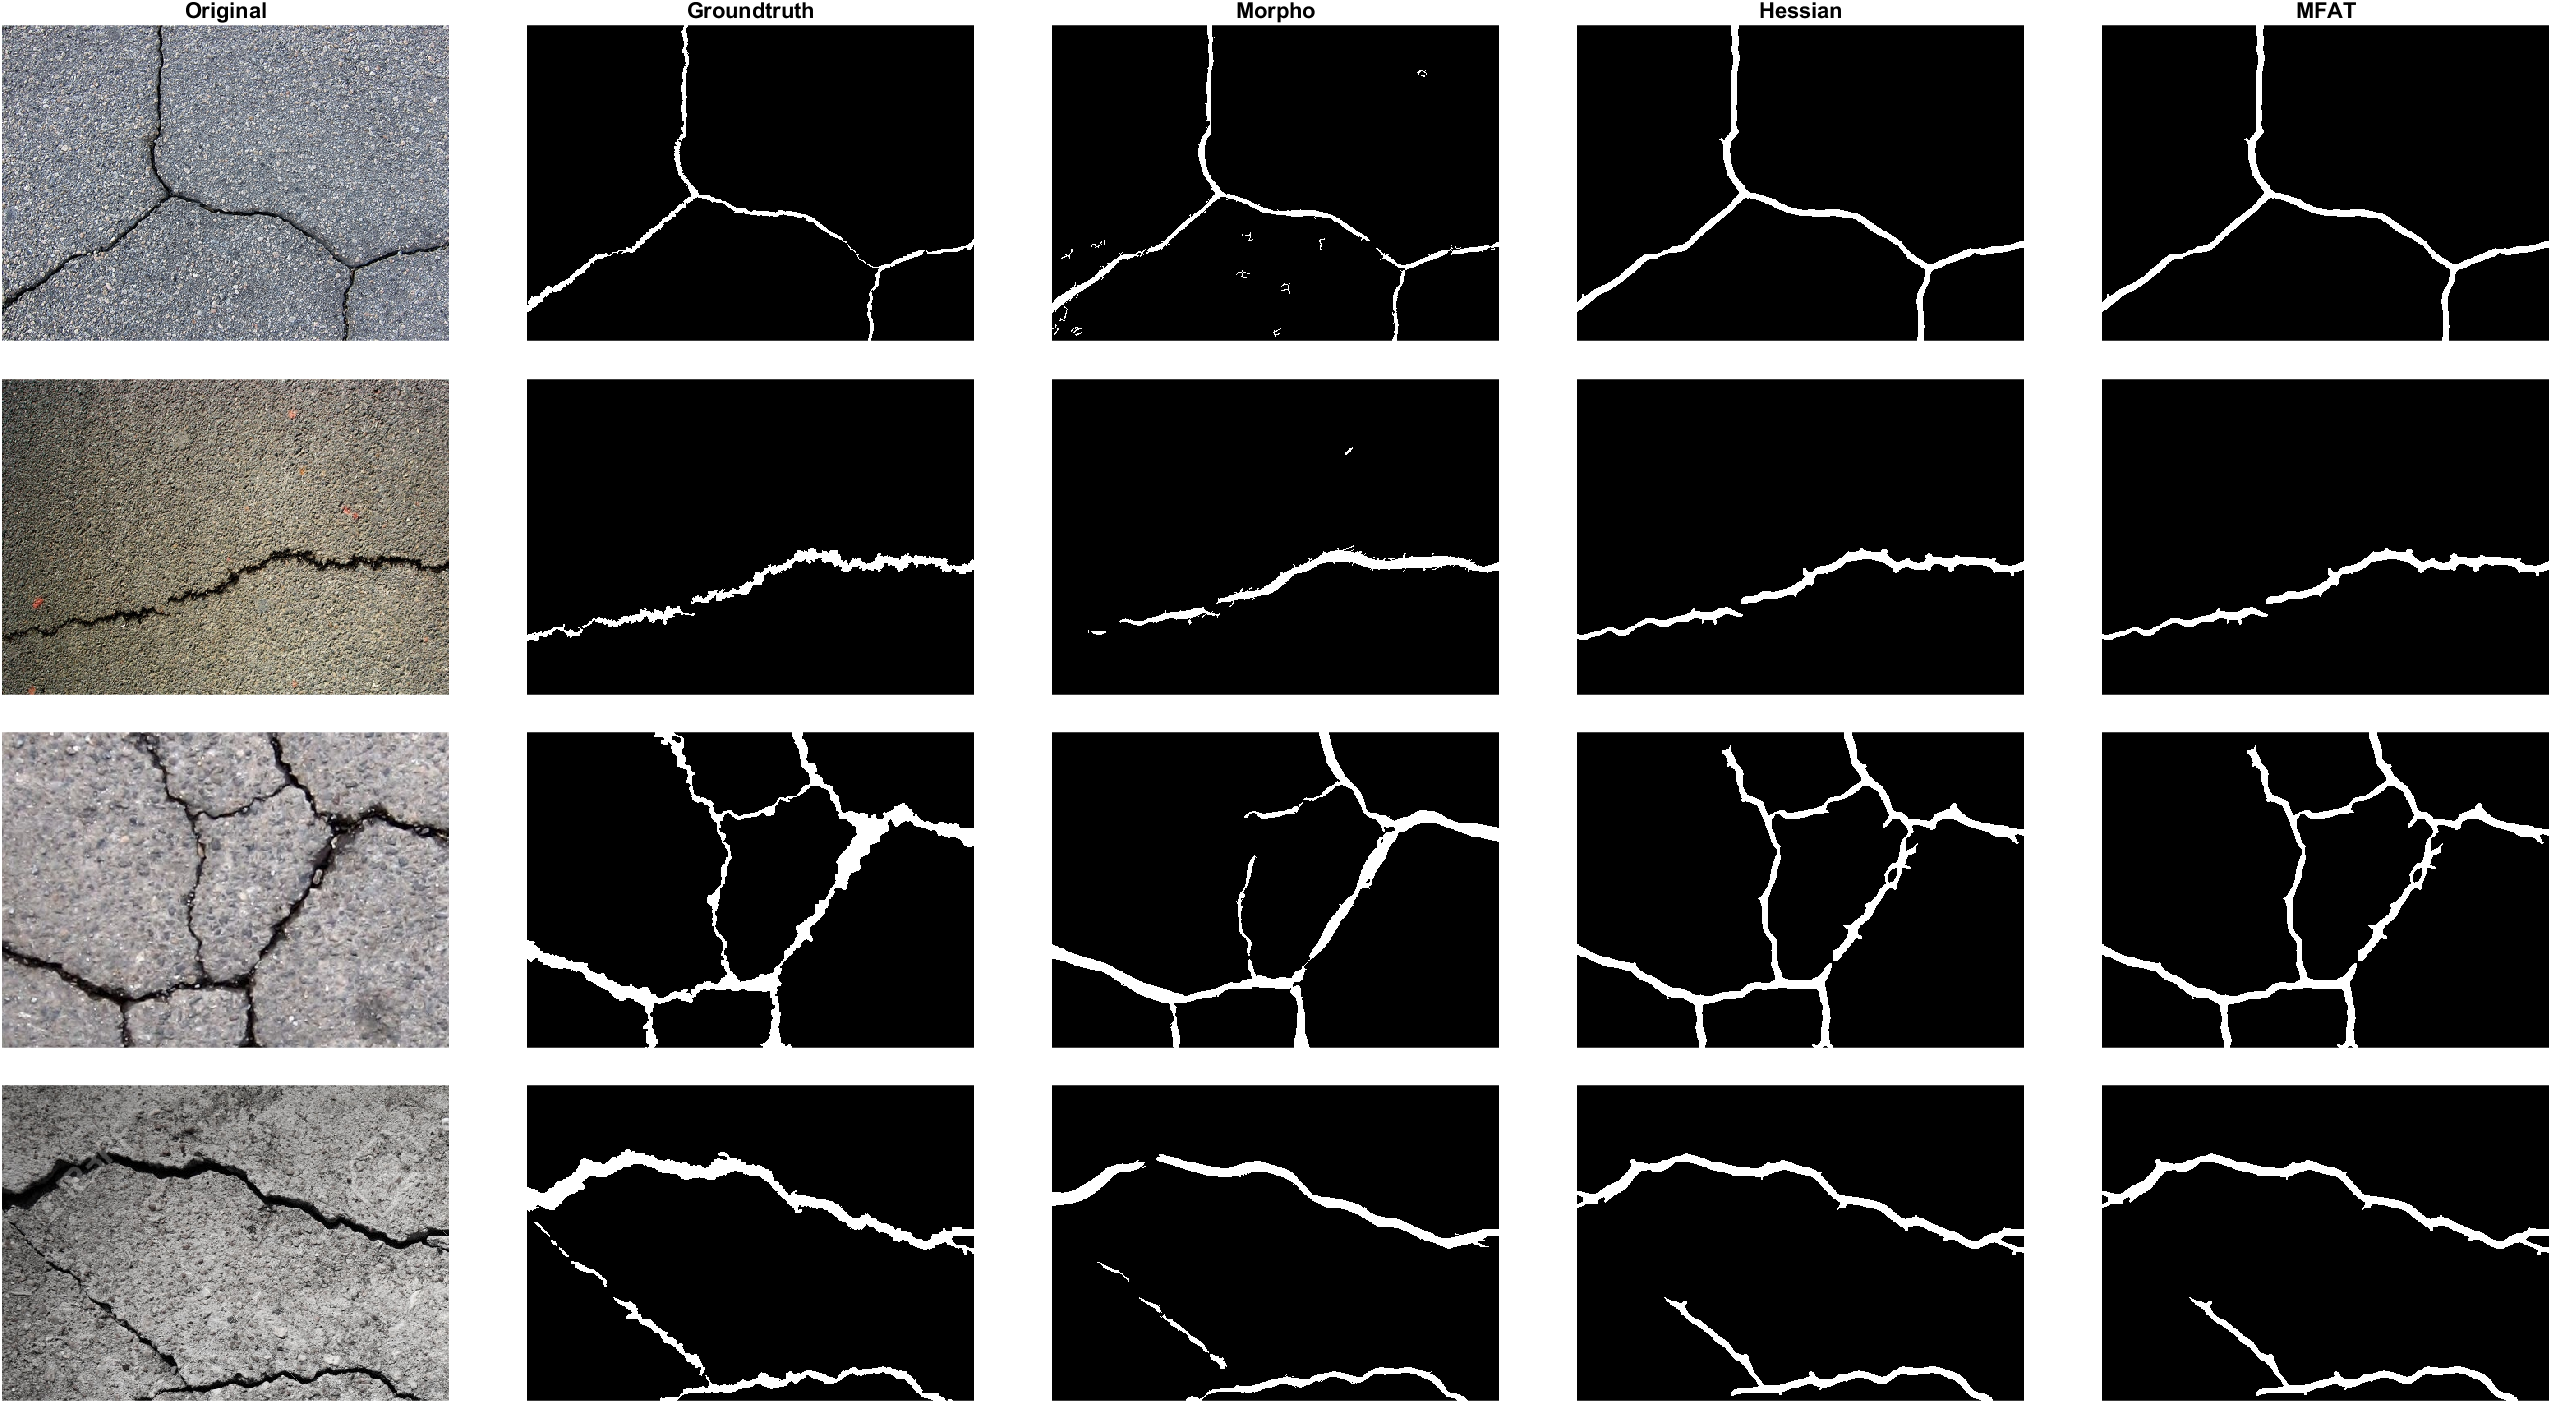
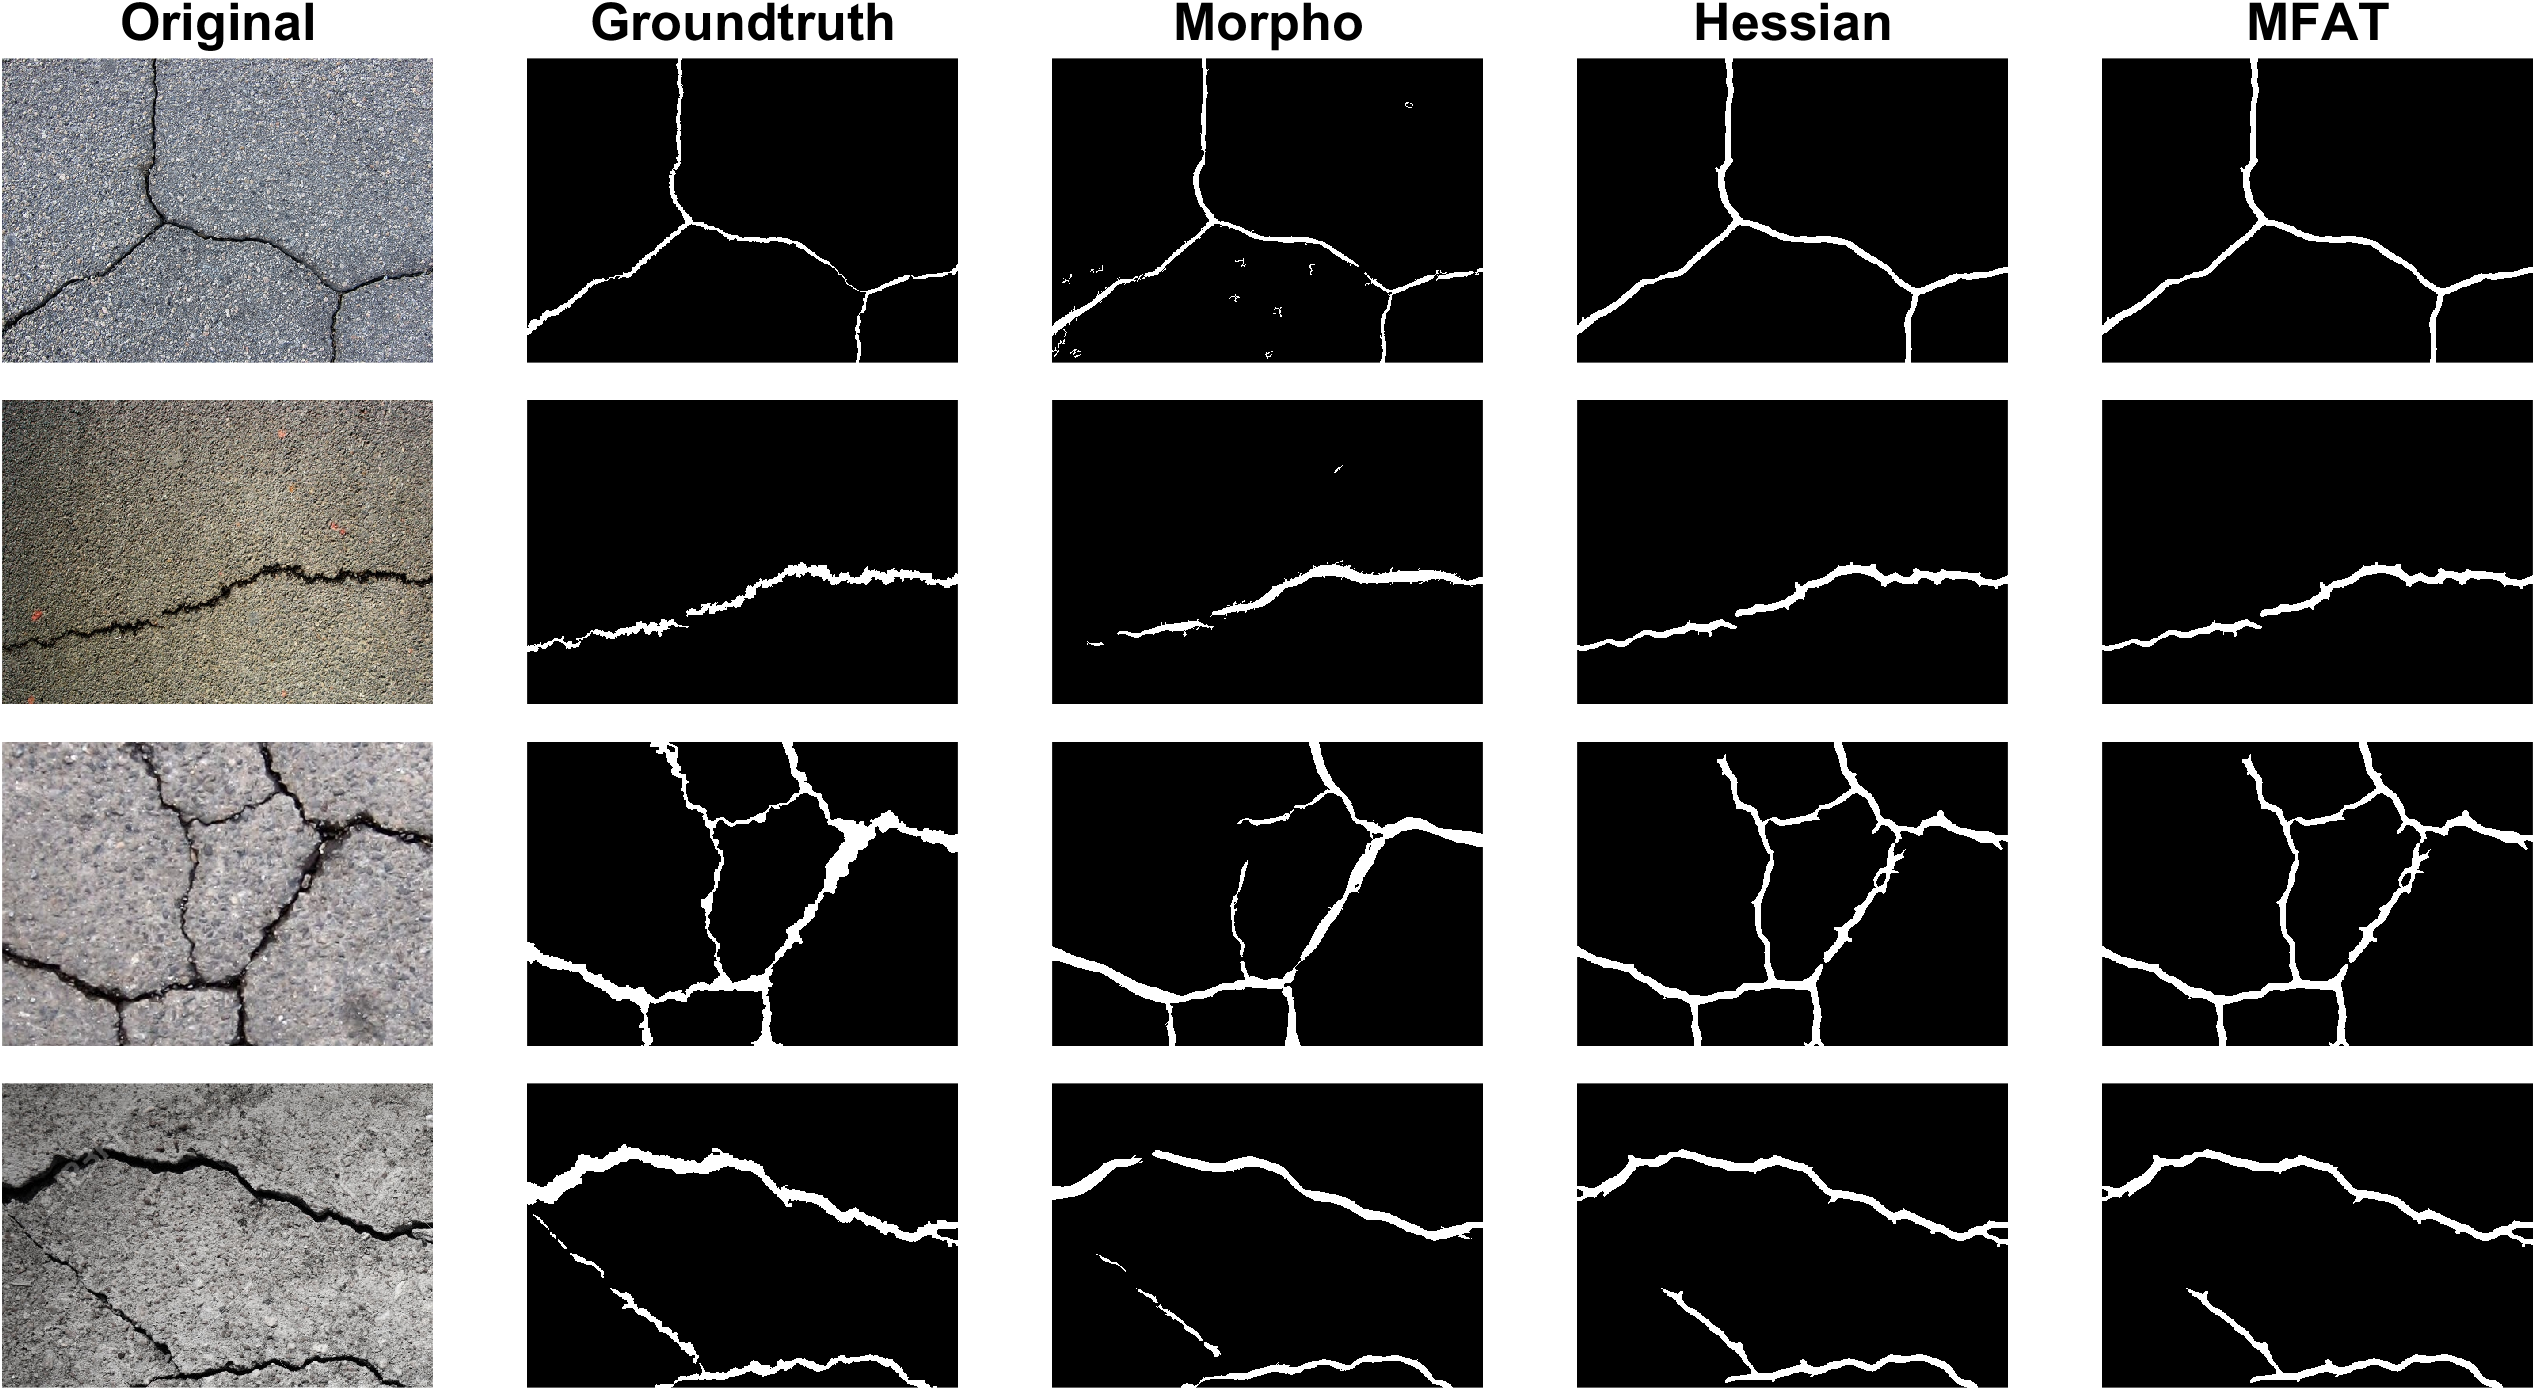
improved subplot title font size

diff --git a/main.m b/main.m
@@ -125,35 +125,35 @@ for i = 1:length(imFiles)
             nexttile
             imshow(inputImage)
             if titleShow(1) == true
-                title('Original')
+                title('Original', 'fontsize', 25)
             end
             titleShow(1) = false;
         elseif mod(cnt, totalMethods+2) == 2   
             nexttile
             imshow(crackMaps{i,1})
             if titleShow(2) == true
-                title('Groundtruth')
+                title('Groundtruth', 'fontsize', 25)
             end
             titleShow(2) = false;            
         elseif mod(cnt, totalMethods+2) == 3 
             nexttile
             imshow(crackMaps{i,2})
             if titleShow(3) == true
-                title('Morpho')
+                title('Morpho', 'fontsize', 25)
             end
             titleShow(3) = false;            
         elseif mod(cnt, totalMethods+2) == 4   
             nexttile
             imshow(crackMaps{i,3})
             if titleShow(4) == true
-                title('Hessian')
+                title('Hessian', 'fontsize', 25)
             end
             titleShow(4) = false;             
         else
             nexttile
             imshow(crackMaps{i,4})            
             if titleShow(5) == true
-                title('MFAT')
+                title('MFAT', 'fontsize', 25)
             end
             titleShow(5) = false;
         end
